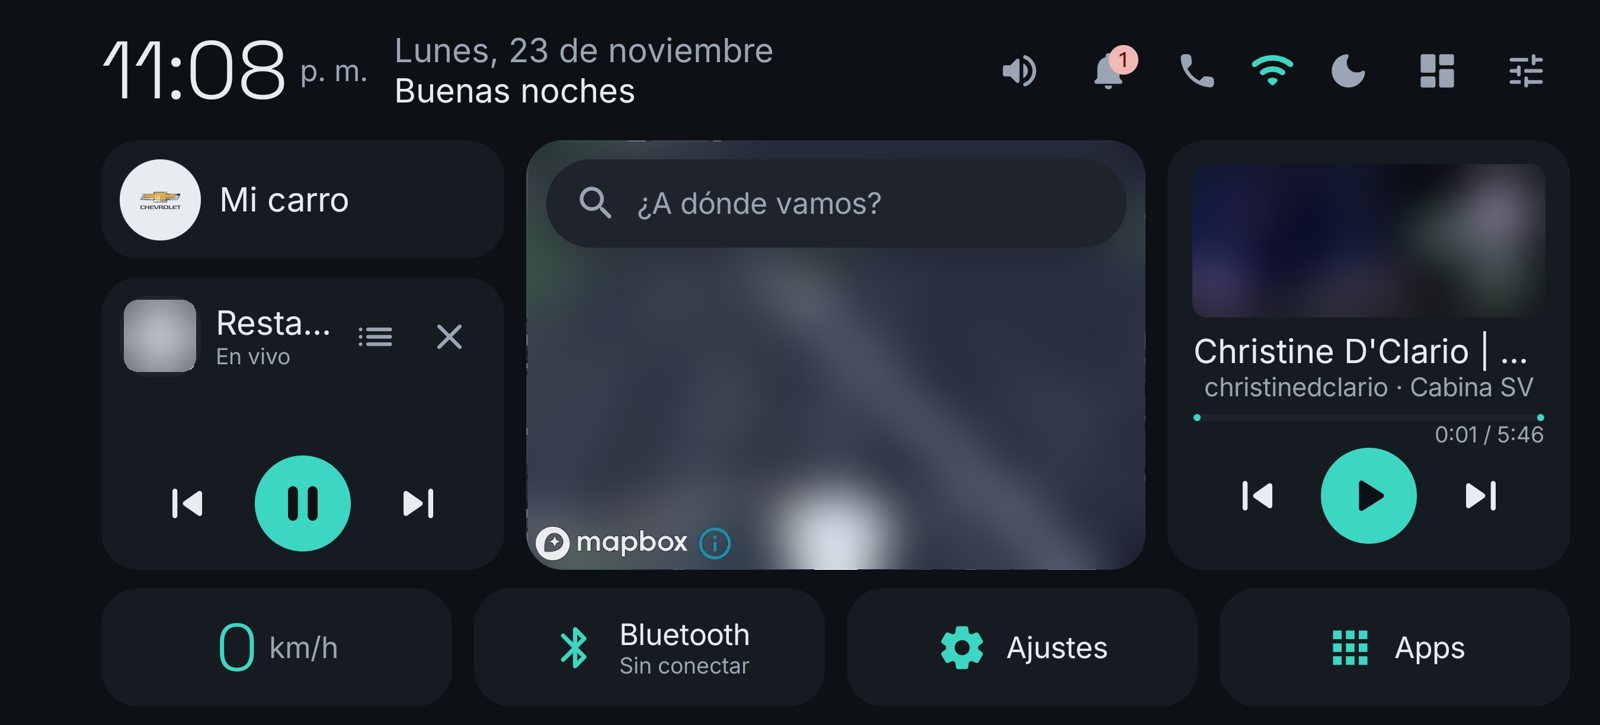
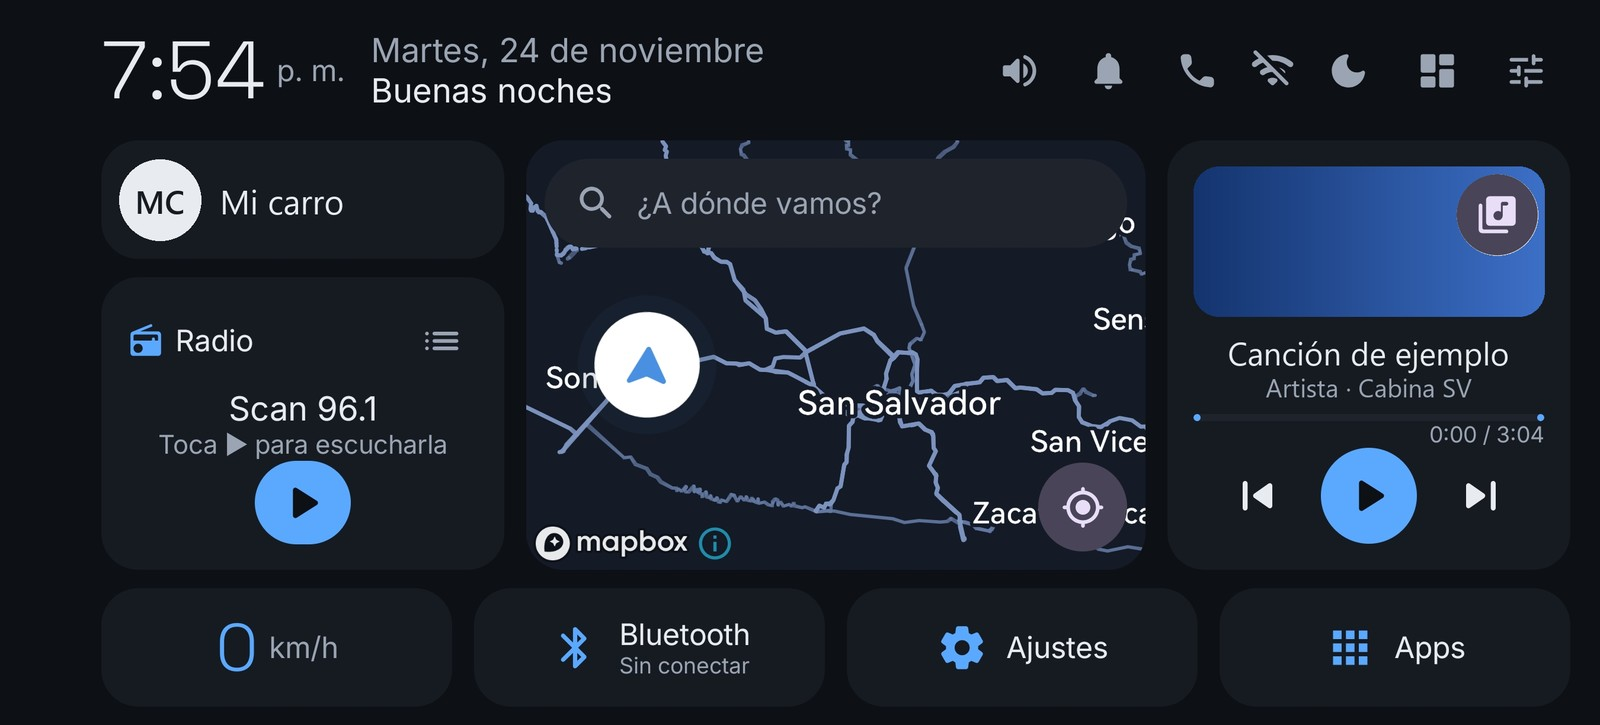
Cabina SV: Rutas sin internet. Pagina y README actualizados

diff --git a/docs/index.html b/docs/index.html
@@ -3,10 +3,10 @@
 <head>
 <meta charset="utf-8">
 <meta name="viewport" content="width=device-width, initial-scale=1">
-<title>Cabina SV · Tu carro, tu cabina</title>
-<meta name="description" content="Cabina SV convierte tu teléfono Android en el tablero de tu carro: navegación, música, radio y llamadas. Hecho en El Salvador.">
-<meta property="og:title" content="Cabina SV · Tu carro, tu cabina">
-<meta property="og:description" content="Navegación, música, radio y llamadas en una sola pantalla. Busca lugares sin internet. Hecho en El Salvador.">
+<title>Cabina SV: Rutas sin internet</title>
+<meta name="description" content="Cabina SV convierte tu teléfono Android en el tablero de tu carro: rutas con guía por voz sin internet en El Salvador, música, radio y llamadas en una sola pantalla.">
+<meta property="og:title" content="Cabina SV: Rutas sin internet">
+<meta property="og:description" content="Tu carro, tu cabina. Rutas sin internet, música, radio y llamadas en un solo tablero. Hecho en El Salvador.">
 <meta property="og:image" content="https://patinorafa04-ship-it.github.io/cabina-sv-app/imagenes/portada.png">
 <link rel="icon" href="imagenes/icono.png">
 <link rel="preconnect" href="https://fonts.googleapis.com">
@@ -14,14 +14,9 @@
 <link href="https://fonts.googleapis.com/css2?family=Inter:wght@400;500;600&family=Space+Grotesk:wght@600;700&display=swap" rel="stylesheet">
 <style>
   :root {
+    color-scheme: dark;
     --fondo: #0D1015; --fondo2: #121722; --tarjeta: #161A21; --borde: rgba(255,255,255,.08);
     --texto: #E8ECF1; --gris: #9AA4B2; --acento: #3DD6C3; --azul: #0F47AF; --azul-claro: #3B7DE8;
-  }
-  @media (prefers-color-scheme: light) {
-    :root:not([data-tema="oscuro"]) {
-      --fondo: #F4F6F9; --fondo2: #E9EEF4; --tarjeta: #FFFFFF; --borde: rgba(20,24,31,.08);
-      --texto: #14181F; --gris: #586272; --acento: #1F8F82;
-    }
   }
   * { box-sizing: border-box; }
   html { scroll-behavior: smooth; }
@@ -45,7 +40,27 @@
   @media (max-width: 860px) { .heroe { grid-template-columns: 1fr; padding-top: 36px; } }
   h1 { font-family: "Space Grotesk", sans-serif; font-size: clamp(44px, 8vw, 76px); line-height: 1; letter-spacing: -2px; margin: 0; }
   h1 .sv { background: linear-gradient(90deg, var(--azul-claro), #fff 55%, var(--azul-claro)); -webkit-background-clip: text; background-clip: text; color: transparent; }
-  @media (prefers-color-scheme: light) { :root:not([data-tema="oscuro"]) h1 .sv { background: linear-gradient(90deg, var(--azul), var(--azul-claro)); -webkit-background-clip: text; background-clip: text; } }
+  h1 small { display: block; font-size: .42em; line-height: 1.15; letter-spacing: -.5px; color: var(--acento); margin-top: 14px; }
+  .pilares { display: flex; flex-wrap: wrap; gap: 8px; margin: 0 0 24px; padding: 0; list-style: none; }
+  .pilares li { background: var(--tarjeta); border: 1px solid var(--borde); border-radius: 999px; padding: 6px 14px; font-size: 15px; }
+  .pilares li::before { content: ""; display: inline-block; width: 9px; height: 9px; border-radius: 50%; background: var(--acento); margin-right: 8px; }
+  .cifras { display: grid; grid-template-columns: repeat(4, 1fr); gap: 12px; }
+  @media (max-width: 860px) { .cifras { grid-template-columns: repeat(2, 1fr); } }
+  .cifra { background: var(--tarjeta); border: 1px solid var(--borde); border-radius: 18px; padding: 18px; }
+  .cifra b { display: block; font: 700 clamp(24px, 4vw, 34px)/1.1 "Space Grotesk", sans-serif; color: var(--acento); font-variant-numeric: tabular-nums; }
+  .cifra span { color: var(--gris); font-size: 14px; }
+  .nota { color: var(--gris); font-size: 14px; margin: 12px 0 0; }
+  .compara { min-width: 640px; }
+  .compara thead th { color: var(--texto); font-weight: 600; background: var(--fondo2); }
+  .compara tbody th { width: 22%; }
+  .compara td.nuestro { color: var(--texto); background: color-mix(in srgb, var(--acento) 9%, transparent); }
+  .compara td { color: var(--gris); }
+  .num { text-align: right !important; font-variant-numeric: tabular-nums; white-space: nowrap; }
+  section { scroll-margin-top: 50px; }
+  @media (max-width: 480px) { .destacado { padding: 20px 14px; } .ficha.lugares th, .ficha.lugares td { padding: 10px 8px; font-size: 14px; } }
+  .lugares th { width: auto; color: var(--texto); }
+  .lugares .total th, .lugares .total td { color: var(--acento); font-weight: 600; }
+  .lugares small { display: block; color: var(--gris); font-weight: 400; }
   .lema { font-size: clamp(20px, 3vw, 26px); margin: 16px 0 8px; font-weight: 500; }
   .sub { color: var(--gris); margin: 0 0 28px; }
   .botones { display: flex; gap: 12px; flex-wrap: wrap; }
@@ -78,6 +93,7 @@
   .grupo li b { color: var(--texto); font-weight: 600; }
 
   /* Sin internet */
+  .destacado > div { min-width: 0; }
   .destacado { background: linear-gradient(135deg, color-mix(in srgb, var(--acento) 18%, var(--tarjeta)), var(--tarjeta)); border: 1px solid var(--borde); border-radius: 22px; padding: 28px; display: grid; grid-template-columns: 1fr 1fr; gap: 24px; align-items: center; }
   @media (max-width: 760px) { .destacado { grid-template-columns: 1fr; } }
   .paises { display: grid; grid-template-columns: repeat(2, 1fr); gap: 8px; }
@@ -110,6 +126,8 @@
     <b>Cabina SV</b>
     <nav>
       <a href="#capturas">Capturas</a>
+      <a href="#sin-internet">Sin internet</a>
+      <a href="#diferencia">Diferencias</a>
       <a href="#funciones">Funciones</a>
       <a href="#ficha">Ficha técnica</a>
       <a href="#preguntas">Preguntas</a>
@@ -120,24 +138,82 @@
 <main class="contenedor">
   <div class="heroe">
     <div>
-      <h1>Cabina <span class="sv">SV</span></h1>
+      <h1>Cabina <span class="sv">SV</span><small>Rutas sin internet</small></h1>
       <p class="lema">Tu carro, tu cabina.</p>
-      <p class="sub">Convierte tu teléfono Android en el tablero de tu carro: navegación, música, radio y llamadas en una sola pantalla, con botones grandes para verse de un vistazo. Busca lugares aunque no tengas internet.</p>
+      <p class="sub">Convierte tu teléfono Android en el tablero de tu carro. Calcula la ruta y te guía por voz <b style="color:var(--texto)">aunque no tengas datos</b>, con todo El Salvador en un solo archivo, y reúne tu música, la radio y tus llamadas en una pantalla.</p>
+      <ul class="pilares"><li>Navegación</li><li>Sin internet</li><li>Música</li><li>Radio</li></ul>
       <div class="botones">
-        <a class="boton principal" href="https://play.google.com/store/apps/details?id=com.modocarro.app">▶ Google Play</a>
-        <a class="boton secundario" href="#capturas">Ver cómo funciona</a>
+        <a class="boton principal" href="#sin-internet">Ver qué hace sin internet</a>
+        <a class="boton secundario" href="#capturas">Ver la app</a>
       </div>
-      <p class="pronto">Próximamente en Google Play · Gratis y sin anuncios · Hecho en El Salvador</p>
+      <p class="pronto">Próximamente en Google Play · Gratis y sin anuncios · Hecho en El Salvador · App Android para manejar</p>
     </div>
     <img class="portada" src="imagenes/portada.png" alt="Portada de Cabina SV con un volante azul">
   </div>
+
+  <div class="cifras">
+    <div class="cifra"><b>12.6 MB</b><span>mapa de calles y rutas de todo El Salvador</span></div>
+    <div class="cifra"><b>41,151</b><span>lugares del país ya incluidos en la app</span></div>
+    <div class="cifra"><b>312,833</b><span>lugares para buscar en 6 países</span></div>
+    <div class="cifra"><b>0</b><span>anuncios y cuentas por crear</span></div>
+  </div>
+
+  <section id="sin-internet">
+    <h2>Se fue la señal, la ruta sigue</h2>
+    <p class="intro">Cuando te quedas sin internet, la app lo avisa por voz y pasa sola al mapa y las rutas guardadas en tu teléfono.</p>
+    <div class="grupos">
+      <div class="grupo"><h3>🛣 Calcula la ruta</h3>
+        <ul><li>En <b>tu teléfono</b>, sin datos móviles</li><li><b>Recalcula en el momento</b> si te desvías</li><li>Guía por <b>voz en español</b>, y baja la música al hablar</li></ul></div>
+      <div class="grupo"><h3>🗺 Mapa propio</h3>
+        <ul><li>Calles con <b>nombre</b> de todo El Salvador</li><li>De <b>día y de noche</b>, también en el inicio</li><li>La ruta que falta en color y <b>lo recorrido en gris</b></li></ul></div>
+      <div class="grupo"><h3>🔎 Busca y dicta</h3>
+        <ul><li>Lugares, colonias y calles <b>sin conexión</b></li><li><b>Dictado por voz</b> sin internet en teléfonos compatibles</li><li>Descargas <b>una vez y no vence</b></li></ul></div>
+    </div>
+  </section>
+
+  <section id="paises">
+    <div class="destacado">
+      <div>
+        <h2>Lo que pesa cada cosa</h2>
+        <p class="sub" style="margin:0">El directorio de El Salvador <b style="color:var(--texto)">viene dentro de la app</b>. Los demás países se descargan por separado, gratis, desde Ajustes.</p>
+        <p class="sub" style="margin:12px 0 0"><b style="color:var(--acento)">Rutas y mapa de El Salvador:</b> 12.6 MB de descarga, 27 MB ya instalado. En los demás países la app busca lugares sin internet; las rutas sin internet son solo de El Salvador.</p>
+        <p class="nota">Archivos publicados en <a href="https://github.com/patinorafa04-ship-it/cabina-sv-mapas">cabina-sv-mapas</a>. Datos © colaboradores de OpenStreetMap.</p>
+      </div>
+      <div class="tabla"><table class="ficha lugares">
+        <tr><th>🇸🇻 El Salvador<small>Incluido en la app</small></th><td class="num">41,151</td><td class="num">1.1 MB</td></tr>
+        <tr><th>🇬🇹 Guatemala</th><td class="num">52,978</td><td class="num">1.5 MB</td></tr>
+        <tr><th>🇭🇳 Honduras</th><td class="num">34,608</td><td class="num">0.9 MB</td></tr>
+        <tr><th>🇳🇮 Nicaragua</th><td class="num">39,552</td><td class="num">1.1 MB</td></tr>
+        <tr><th>🇨🇷 Costa Rica</th><td class="num">108,841</td><td class="num">2.9 MB</td></tr>
+        <tr><th>🇵🇦 Panamá</th><td class="num">35,703</td><td class="num">1.0 MB</td></tr>
+        <tr class="total"><th>Total de lugares</th><td class="num">312,833</td><td class="num"></td></tr>
+      </table></div>
+    </div>
+  </section>
+
+  <section id="diferencia">
+    <h2>¿En qué se diferencia de Google Maps?</h2>
+    <p class="intro">Google Maps es excelente para el tráfico y tiene cobertura mundial. Cabina SV es otra cosa: un tablero completo para tu carro, pensado para El Salvador.</p>
+    <div class="tabla"><table class="ficha compara">
+      <thead><tr><th></th><th>Cabina SV</th><th>Google Maps</th></tr></thead>
+      <tbody>
+      <tr><th>Qué es</th><td class="nuestro">Tablero para el carro: mapa, música, radio, llamadas y notificaciones</td><td>Mapa y navegación</td></tr>
+      <tr><th>Preparar el uso sin internet</th><td class="nuestro">Un archivo con todo El Salvador, sin recortar zonas</td><td>Eliges y descargas las zonas que quieras</td></tr>
+      <tr><th>Vigencia</th><td class="nuestro">No vence</td><td>Vence y se actualiza cada cierto tiempo</td></tr>
+      <tr><th>Guía sin internet</th><td class="nuestro">Sí, en El Salvador</td><td>Sí, dentro de la zona descargada</td></tr>
+      <tr><th>Tráfico en vivo</th><td class="nuestro">Solo con internet, con datos de Mapbox</td><td>Solo con internet</td></tr>
+      <tr><th>Cobertura sin internet</th><td class="nuestro">Rutas en El Salvador y búsqueda en 6 países</td><td>Las zonas que descargues, donde Google lo permite</td></tr>
+      </tbody>
+    </table></div>
+    <p class="nota">Google Maps es una marca de Google LLC. Cabina SV no está afiliada a Google. Información de <a href="https://support.google.com/maps/answer/6291838?hl=es&co=GENIE.Platform%3DAndroid">la ayuda de Google Maps</a>, noviembre de 2026.</p>
+  </section>
 
   <section id="capturas">
     <h2>Así funciona</h2>
     <p class="intro">Todo en horizontal, pensado para el soporte del carro.</p>
     <div class="capturas">
-      <figure><div class="marco"><img src="capturas/01-inicio.jpg" alt="Pantalla de inicio" onerror="this.replaceWith('Captura próximamente')"></div>
-        <figcaption><b>Inicio</b><span>Hora, radio, mapa, música y velocidad de un vistazo.</span></figcaption></figure>
+      <figure><div class="marco"><img src="capturas/01-inicio.jpg" alt="Pantalla de inicio con el mapa sin internet de El Salvador" onerror="this.replaceWith('Captura próximamente')"></div>
+        <figcaption><b>Inicio sin internet</b><span>Tu tablero con el mapa propio: hora, radio, música y velocidad.</span></figcaption></figure>
       <figure><div class="marco"><img src="capturas/02-navegacion.jpg" alt="Navegación" onerror="this.replaceWith('Captura próximamente')"></div>
         <figcaption><b>Navegación</b><span>Guía por voz, tiempo de llegada y límite de velocidad.</span></figcaption></figure>
       <figure><div class="marco"><img src="capturas/03-musica.jpg" alt="Música" onerror="this.replaceWith('Captura próximamente')"></div>
@@ -152,59 +228,27 @@
   </section>
 
   <section id="funciones">
-    <h2>Todo lo que trae</h2>
+    <h2>Todo en una pantalla</h2>
     <p class="intro">Lo que necesitas al manejar, sin cambiar de app.</p>
     <div class="grupos">
-      <div class="grupo">
-        <h3>🧭 Navegación</h3>
-        <ul>
-          <li><b>Guía por voz</b> y varias rutas para elegir</li>
-          <li><b>Límite de velocidad</b> de la calle</li>
-          <li>Mapa de <b>día o de noche</b> según la hora</li>
-          <li><b>Dictado por voz</b>, también sin internet</li>
-          <li><b>Mis lugares</b>: Casa, Trabajo y favoritos</li>
-          <li>Plan B sin internet con <b>Organic Maps</b></li>
-          <li>🔜 <b>Rutas sin internet</b> (próximamente)</li>
-        </ul>
-      </div>
-      <div class="grupo">
-        <h3>🎵 Música y radio</h3>
-        <ul>
-          <li>Tu música por <b>carpetas</b> y <b>playlists</b></li>
-          <li>Recuerda <b>dónde te quedaste</b></li>
-          <li><b>Radio por internet</b> con miles de emisoras</li>
-          <li>Controla <b>Spotify y YouTube Music</b></li>
-          <li>Desliza la carátula para <b>cambiar de canción</b></li>
-        </ul>
-      </div>
-      <div class="grupo">
-        <h3>📱 Al volante</h3>
-        <ul>
-          <li><b>Inicio personalizable</b> con gadgets</li>
-          <li><b>Notificaciones</b> que se cierran solas</li>
-          <li><b>Llamadas</b> a favoritos con un toque</li>
-          <li>Se <b>abre sola</b> al conectar el carro</li>
-          <li>Tema <b>claro, oscuro o automático</b></li>
-        </ul>
-      </div>
-    </div>
-  </section>
-
-  <section>
-    <div class="destacado">
-      <div>
-        <h2>Busca sin internet</h2>
-        <p class="sub" style="margin:0">El Salvador viene incluido: <b style="color:var(--texto)">más de 41 mil lugares</b>, colonias, calles y aeropuertos. Descarga otros países gratis desde la app.</p>
-        <p class="sub" style="margin:12px 0 0"><b style="color:var(--acento)">Próximamente:</b> rutas con guía por voz también sin internet. Se descargan una sola vez, igual que los países.</p>
-      </div>
-      <div class="paises">
-        <div class="pais">🇸🇻 El Salvador<small>Incluido</small></div>
-        <div class="pais">🇬🇹 Guatemala<small>52 mil lugares</small></div>
-        <div class="pais">🇭🇳 Honduras<small>34 mil lugares</small></div>
-        <div class="pais">🇳🇮 Nicaragua<small>39 mil lugares</small></div>
-        <div class="pais">🇨🇷 Costa Rica<small>108 mil lugares</small></div>
-        <div class="pais">🇵🇦 Panamá<small>35 mil lugares</small></div>
-      </div>
+      <div class="grupo"><h3>🧩 Inicio personalizable</h3>
+        <ul><li><b>Mueve, oculta e intercambia</b> los gadgets</li><li>Logo de tu carro, radio, minimapa, música y llamadas</li><li>Hora, velocidad y avisos de un vistazo</li></ul></div>
+      <div class="grupo"><h3>🧭 Navegación</h3>
+        <ul><li><b>Guía por voz</b>, con y sin internet</li><li><b>Varias rutas</b> para elegir y <b>límite de velocidad</b> de la calle, con internet</li><li>Mapa de <b>día o de noche</b> según la hora</li></ul></div>
+      <div class="grupo"><h3>📍 Mis lugares</h3>
+        <ul><li><b>Mantén presionado</b> el mapa para guardar</li><li>Casa, Trabajo o Favorito</li><li>Edítalos o bórralos cuando quieras</li></ul></div>
+      <div class="grupo"><h3>🎵 Música local</h3>
+        <ul><li>Por <b>carpetas</b>, canciones, artistas, álbumes y <b>playlists</b></li><li>Recuerda la canción y <b>dónde te quedaste</b></li><li>Controla también <b>Spotify y YouTube Music</b></li></ul></div>
+      <div class="grupo"><h3>📻 Radio por internet</h3>
+        <ul><li><b>Miles de emisoras</b> de <a href="https://www.radio-browser.info">radio-browser.info</a></li><li>Tus favoritas y la última que escuchaste</li><li><b>Desliza</b> para cambiar de emisora</li></ul></div>
+      <div class="grupo"><h3>🔔 Notificaciones y llamadas</h3>
+        <ul><li>Panel que <b>se cierra solo</b></li><li>Llama a tus <b>favoritos</b> con un toque</li><li>Acceso a tus <b>llamadas recientes</b></li></ul></div>
+      <div class="grupo"><h3>🌗 Tema</h3>
+        <ul><li><b>Claro, oscuro o automático</b></li><li>Cambia con la hora, igual que el mapa</li><li>Tu <b>color de acento</b></li></ul></div>
+      <div class="grupo"><h3>🔵 Bluetooth del carro</h3>
+        <ul><li><b>Se abre sola</b> al conectar tu carro</li><li>Tú eliges qué Bluetooth es el de tu carro</li></ul></div>
+      <div class="grupo"><h3>👋 Tour de bienvenida</h3>
+        <ul><li>Resalta <b>cada parte</b> del inicio</li><li>Puedes saltarlo</li><li>Y verlo otra vez desde <b>Ajustes</b></li></ul></div>
     </div>
   </section>
 
@@ -222,11 +266,11 @@
         <tr><th>Desarrollador</th><td>Rafael Aguilar · El Salvador</td></tr>
       </table></div>
       <div class="tabla"><table class="ficha">
-        <tr><th>Sin internet</th><td>Búsqueda de lugares, dictado por voz y tu música</td></tr>
-        <tr><th>Con internet</th><td>Mapa y rutas, radio y descarga de países</td></tr>
-        <tr><th>Próximamente</th><td>Rutas y guía por voz sin internet</td></tr>
+        <tr><th>Sin internet</th><td>Mapa de calles, rutas y guía por voz (El Salvador), búsqueda de lugares, dictado en teléfonos compatibles y tu música</td></tr>
+        <tr><th>Con internet</th><td>Mapa detallado de Mapbox, varias rutas, tráfico, límite de velocidad, radio y descargas</td></tr>
+        <tr><th>Rutas sin internet</th><td>El Salvador: 12.6 MB de descarga, 27 MB instalado</td></tr>
         <tr><th>Mapa</th><td>Mapbox, con tu token gratuito personal</td></tr>
-        <tr><th>Datos de lugares</th><td>© colaboradores de OpenStreetMap</td></tr>
+        <tr><th>Lugares y calles</th><td>© colaboradores de OpenStreetMap</td></tr>
         <tr><th>Permisos</th><td>Ubicación, música, micrófono, contactos, llamadas, notificaciones y Bluetooth. <a href="https://patinorafa04-ship-it.github.io/cabina-sv-mapas/privacidad.html">Para qué se usa cada uno</a></td></tr>
       </table></div>
     </div>
@@ -235,11 +279,13 @@
   <section id="preguntas">
     <h2>Preguntas frecuentes</h2>
     <details><summary>¿Por qué necesito un token de Mapbox?</summary>
-      <p>El mapa lo da Mapbox. Cada persona usa su propio token gratuito, así nadie gasta la cuota de otro. Se crea en minutos en account.mapbox.com y se pega en la app, que te guía paso a paso.</p></details>
+      <p>El mapa lo da Mapbox. Cada persona usa su propio token gratuito, así nadie gasta la cuota de otro. Se crea en minutos en account.mapbox.com y se pega en la app, que te guía paso a paso. También hace falta tenerlo puesto para ver el mapa sin internet, aunque en ese momento no se gasta.</p></details>
     <details><summary>¿Funciona sin datos móviles?</summary>
-      <p>Sí. Puedes buscar lugares, dictar el destino y escuchar tu música sin internet. Por ahora, para calcular rutas necesitas conexión o abrir la ruta en Organic Maps. Pronto las rutas también funcionarán sin internet: se descargan una sola vez, igual que los países.</p></details>
+      <p>Sí. Descarga una vez “Rutas sin internet” en Ajustes &gt; Navegación y la app mostrará su mapa, calculará la ruta y te guiará por voz sin datos, en El Salvador. También puedes buscar lugares y escuchar tu música.</p></details>
     <details><summary>¿Mis datos salen del teléfono?</summary>
-      <p>No hay cuentas ni publicidad. Tus contactos, música y notificaciones se quedan en el teléfono. Solo el mapa (Mapbox) recibe tu ubicación para mostrarte dónde estás y calcular rutas.</p></details>
+      <p>No hay cuentas ni publicidad. Tus contactos, música y notificaciones se quedan en el teléfono. Con internet, Mapbox recibe tu ubicación para mostrarte el mapa y calcular rutas. Sin internet, la ruta se calcula en tu teléfono.</p></details>
+    <details><summary>¿El mapa sin internet es igual al de siempre?</summary>
+      <p>Es más sencillo: muestra calles con su nombre, ciudades, pueblos y colonias. No trae parques, ríos, edificios ni negocios, pero la búsqueda sí encuentra lugares.</p></details>
     <details><summary>¿Dónde la descargo?</summary>
       <p>Muy pronto en Google Play.</p></details>
   </section>
@@ -248,7 +294,7 @@
 <footer>
   <div class="contenedor">
     <span>© 2026 Rafael Aguilar · Hecho en El Salvador</span>
-    <span><a href="https://patinorafa04-ship-it.github.io/cabina-sv-mapas/privacidad.html">Privacidad</a> · Datos de lugares © OpenStreetMap</span>
+    <span><a href="https://patinorafa04-ship-it.github.io/cabina-sv-mapas/privacidad.html">Privacidad</a> · Lugares y calles © OpenStreetMap</span>
   </div>
 </footer>
 <div class="franja"></div>
